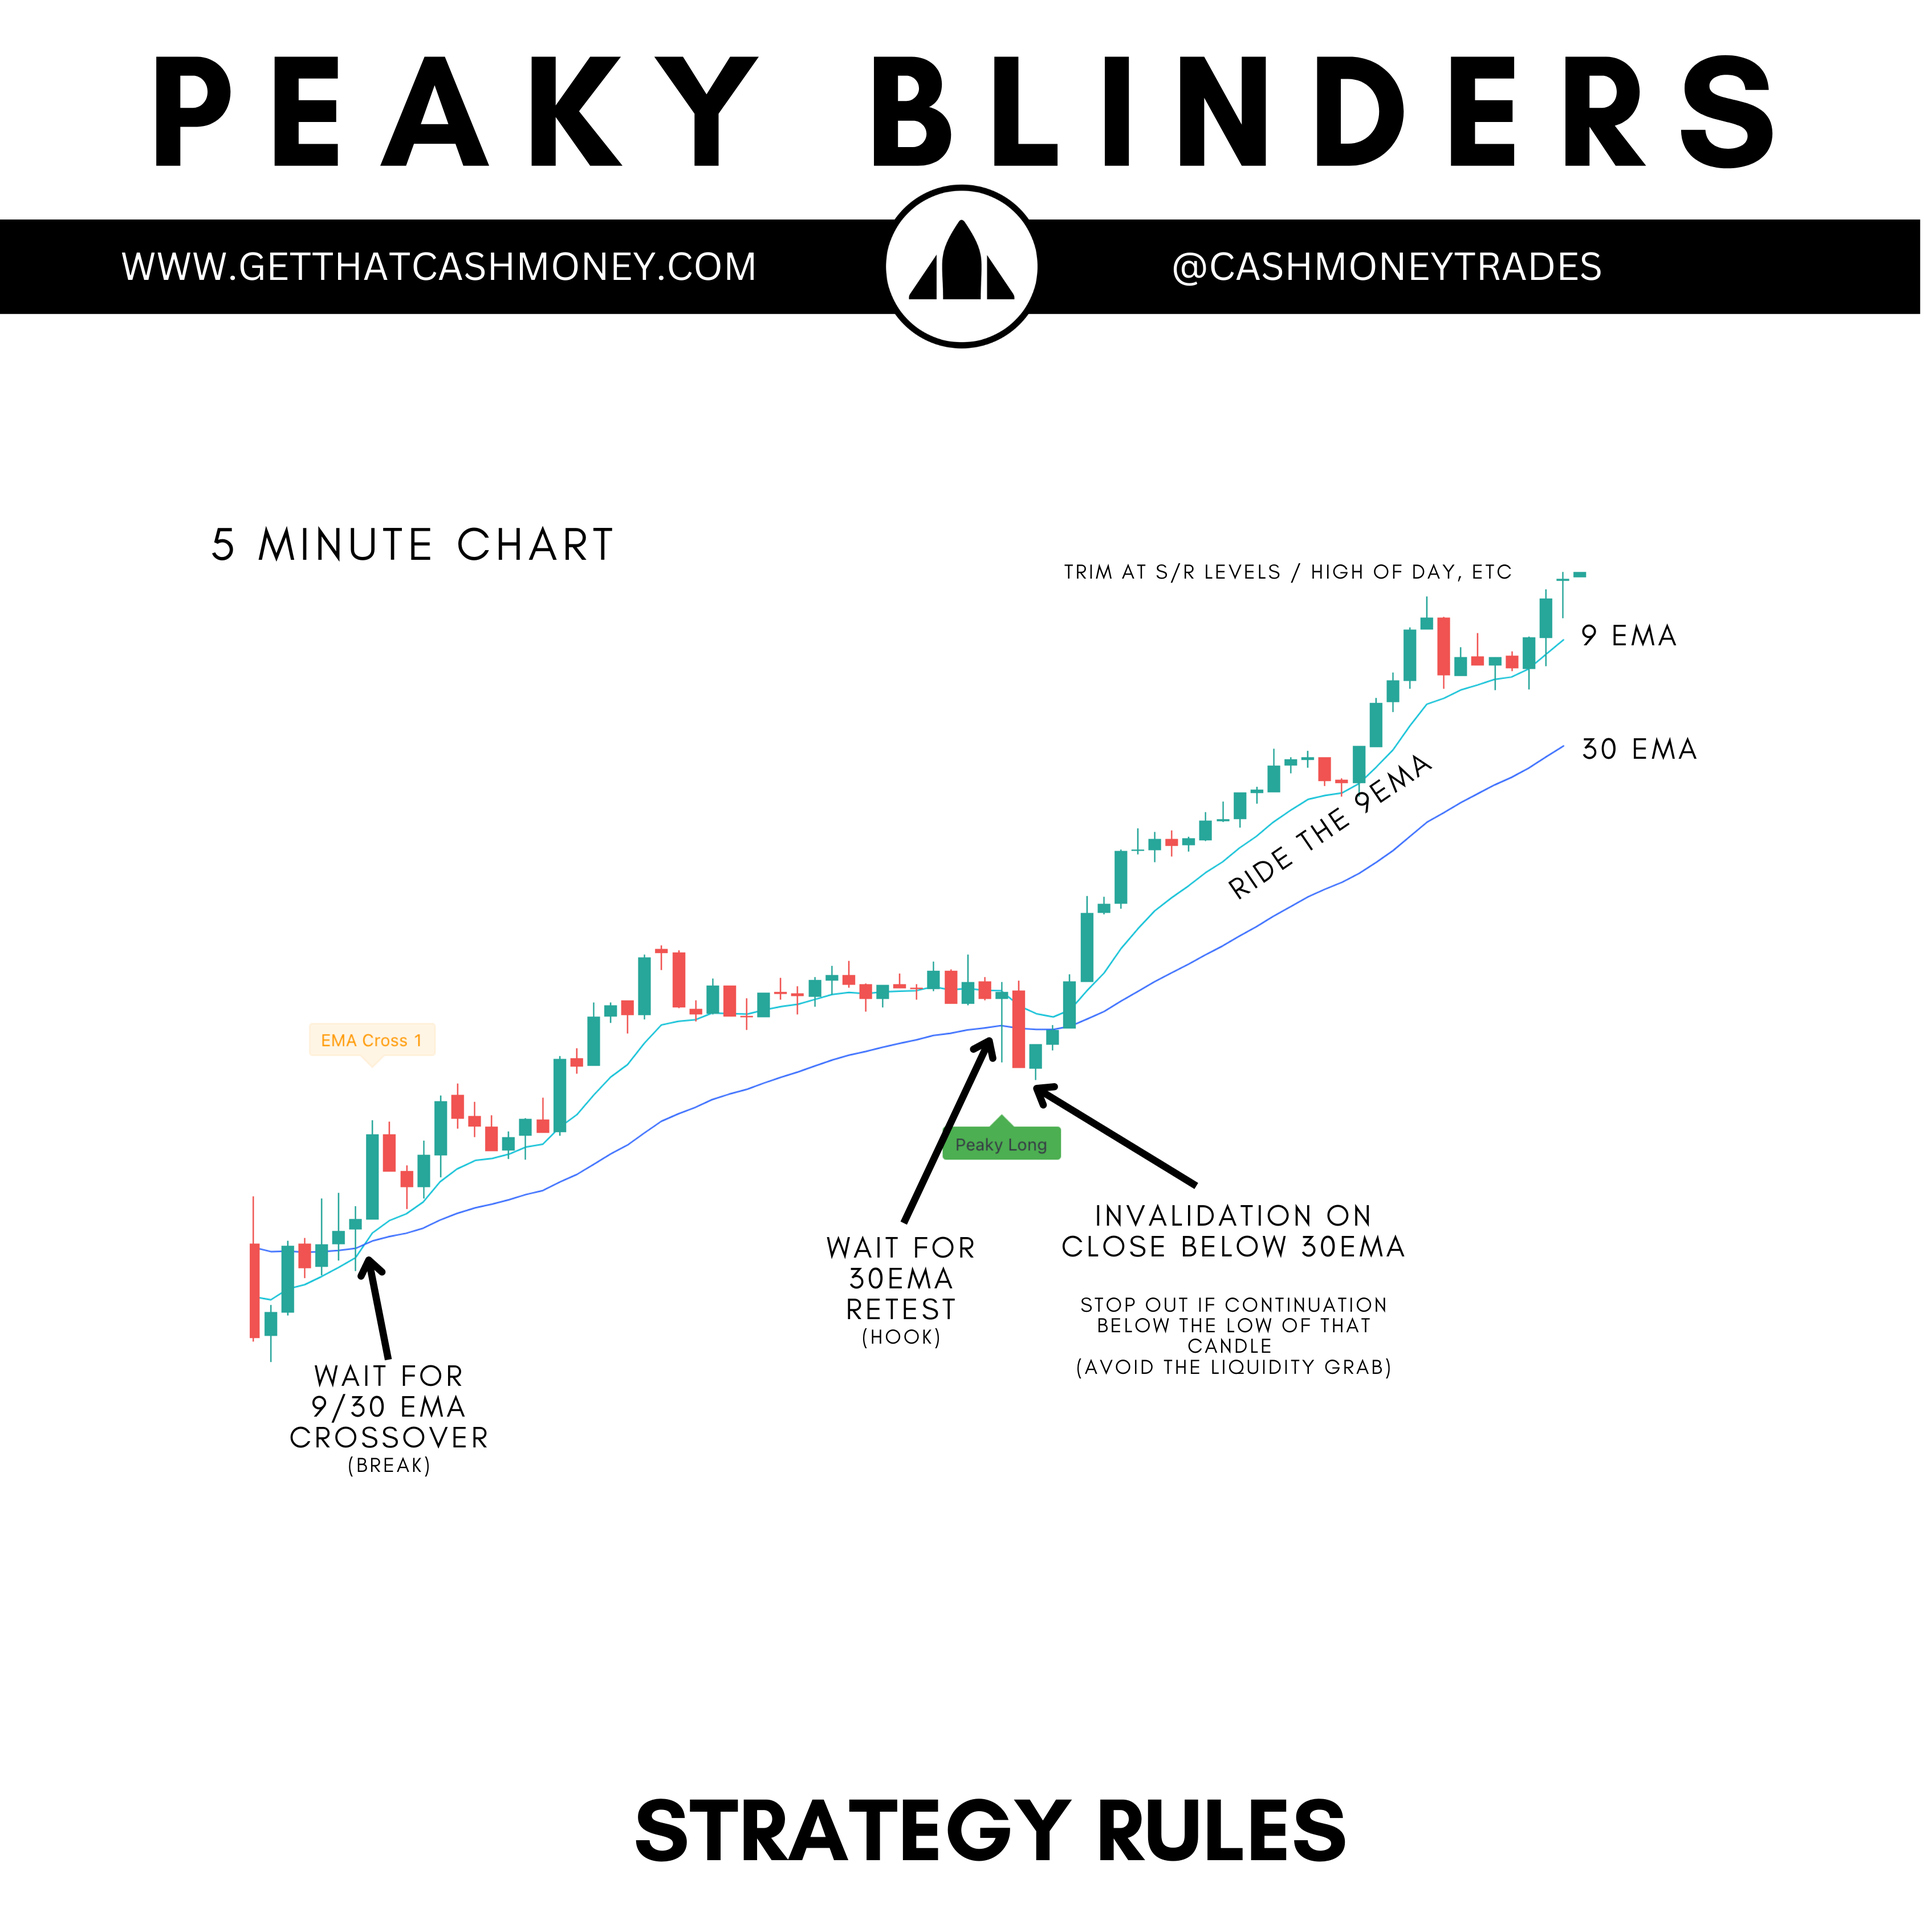
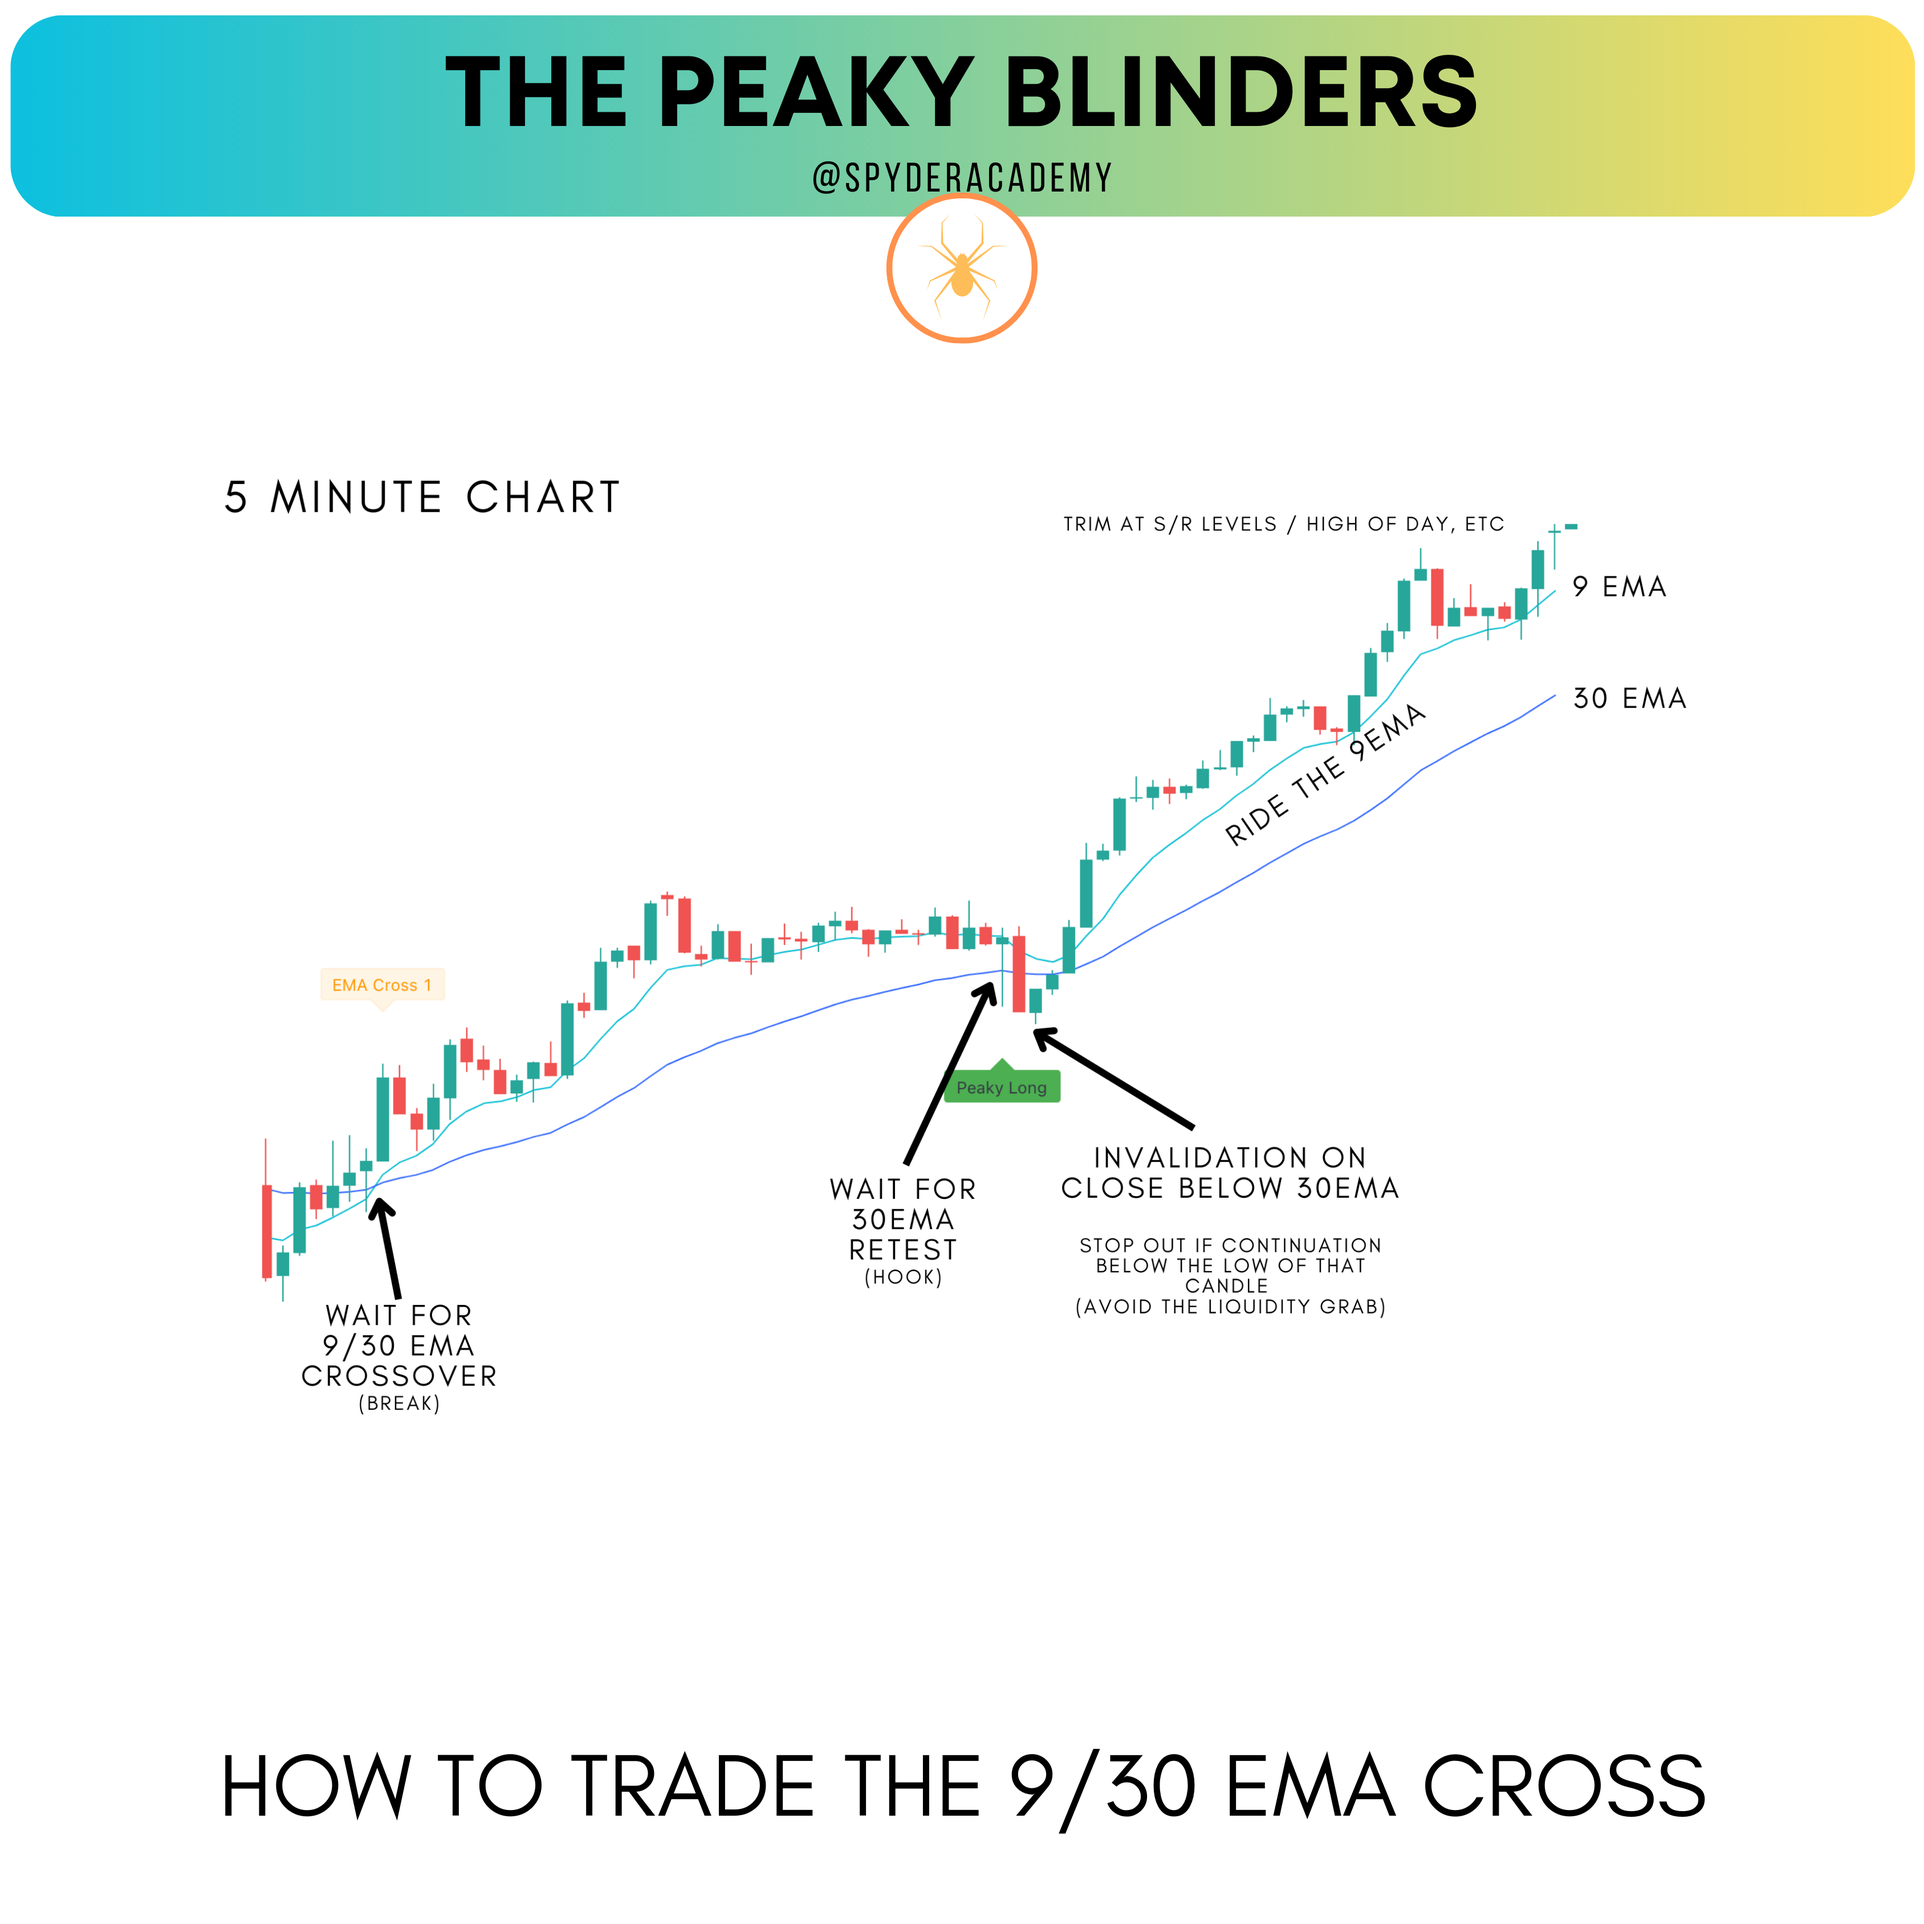
updated peaky image

diff --git a/content/education/Strategy-PeakyBlinders.md b/content/education/Strategy-PeakyBlinders.md
@@ -13,7 +13,7 @@ The Peaky Blinders Strategy is waiting for the 9/30 EMA crossover (5m Regular Ho
 
 Once the 9EMA and 30EMA cross, wait for the [Break Hook and Go](/education/how-to-trade-the-break-hook-and-go/) off the 30 EMA.
 
-### How to Trade The 30 EMA Crossover
+### How to Trade The 9/30 EMA Crossover
 
 ![](/images/peaky.png)
 
